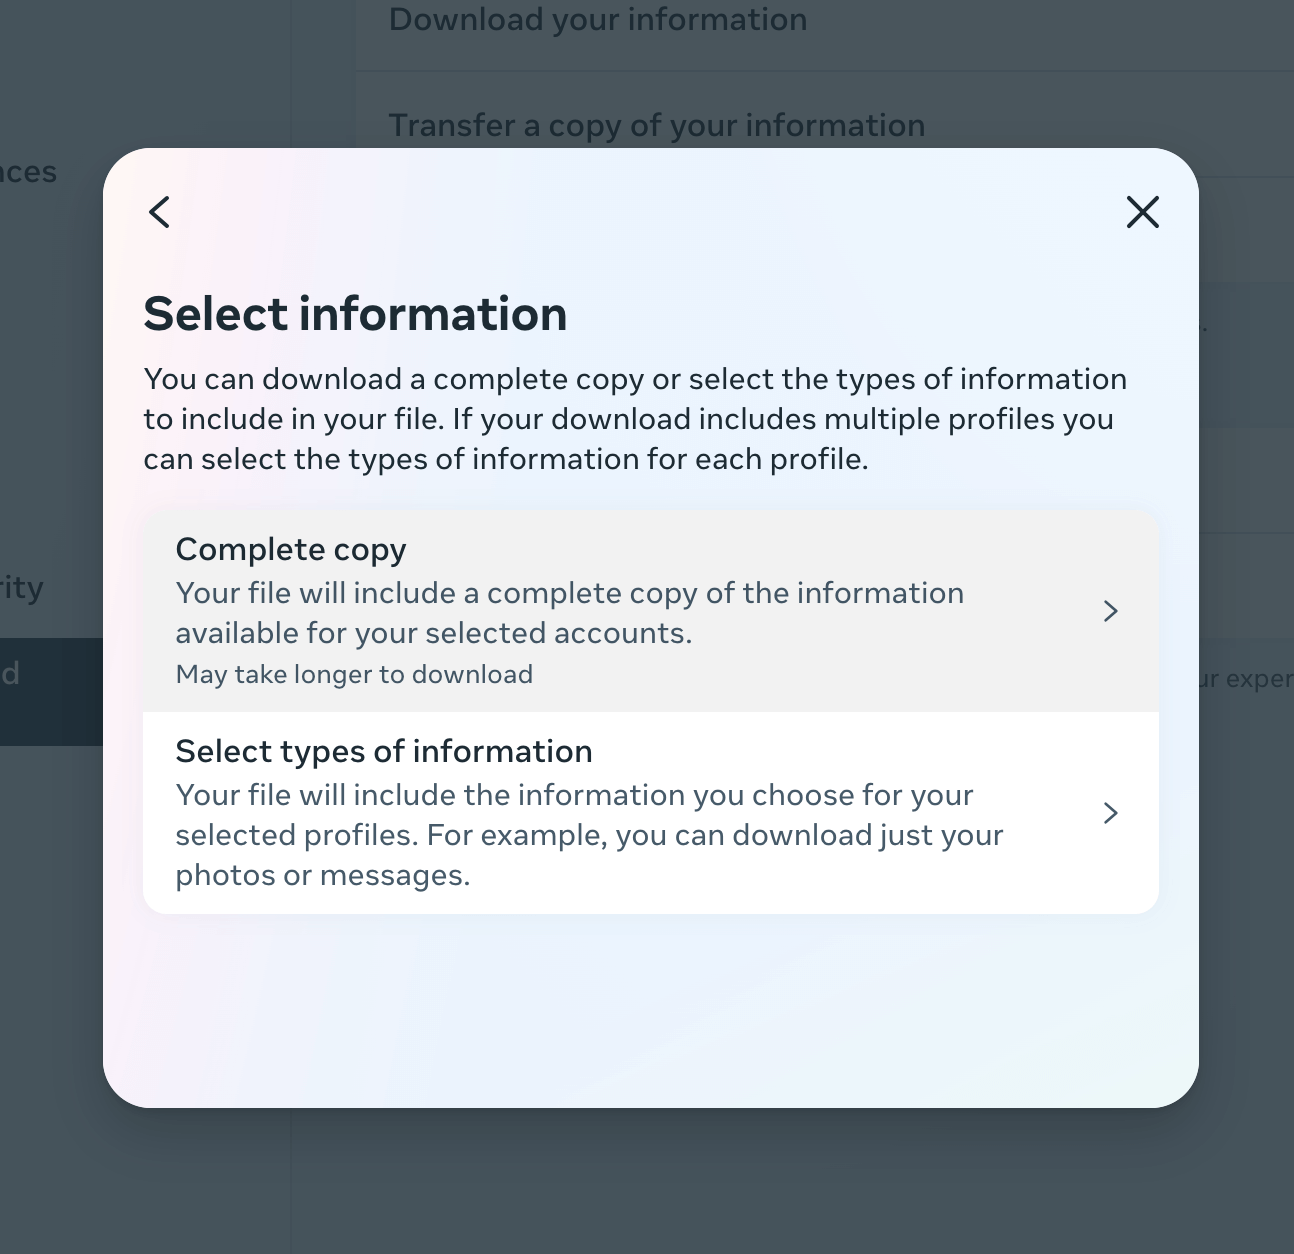
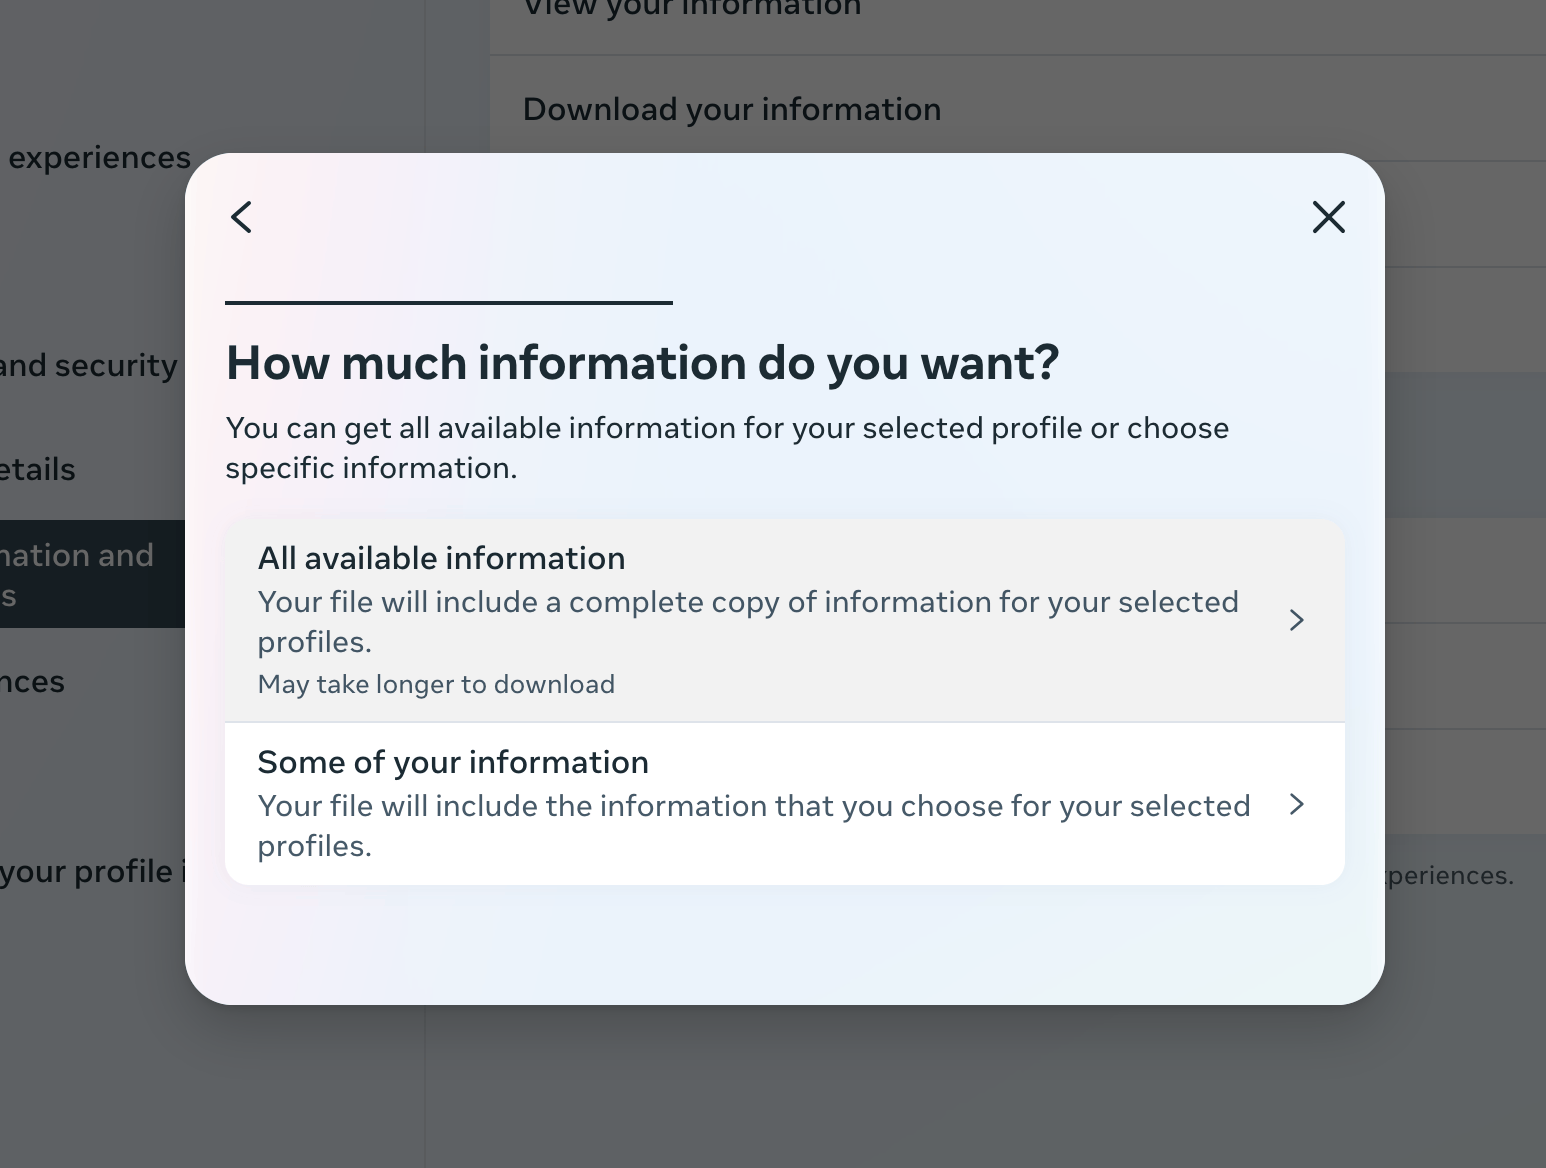
update site

diff --git a/index.html b/index.html
@@ -159,12 +159,7 @@
                         </div>
                     </section>
                     <ol id="instruction" class="section">
-                        <h1 id="inshead">
-                            Hướng dẫn <br />
-                            (nhớ kiểm tra xem bạn có đang ở đúng đường link:
-                            https://vanghoa.github.io/instagram-wrapped-vn/ ko
-                            nhé)
-                        </h1>
+                        <h1 id="inshead">Hướng dẫn</h1>
                         <li>
                             <p>
                                 Tìm 'Your activity' ở phần 'More' trên Instagram
@@ -190,14 +185,19 @@
                             <img src="instruction/ins4.png" />
                         </li>
                         <li>
-                            <p>Chọn 'Complete copy'</p>
+                            <p>Chọn 'All available information'</p>
                             <img src="instruction/ins5.png" />
+                        </li>
+                        <li>
+                            <p>Chọn 'Download to device'</p>
+                            <img src="instruction/device.png" />
                         </li>
                         <li>
                             <p>
                                 Chọn options theo hình: <br />
                                 - Date range: <em>Last year</em> (có thể chọn 1
                                 năm hay 3 tháng, tùy bạn) <br />
+                                - Notify: chọn email của bạn <br />
                                 - Format: <em>JSON</em> (nhớ chọn JSON!) <br />
                                 - Media quality: <em>Low</em> (chất lượng thấp
                                 để tải cho nhanh) <br /><br />
